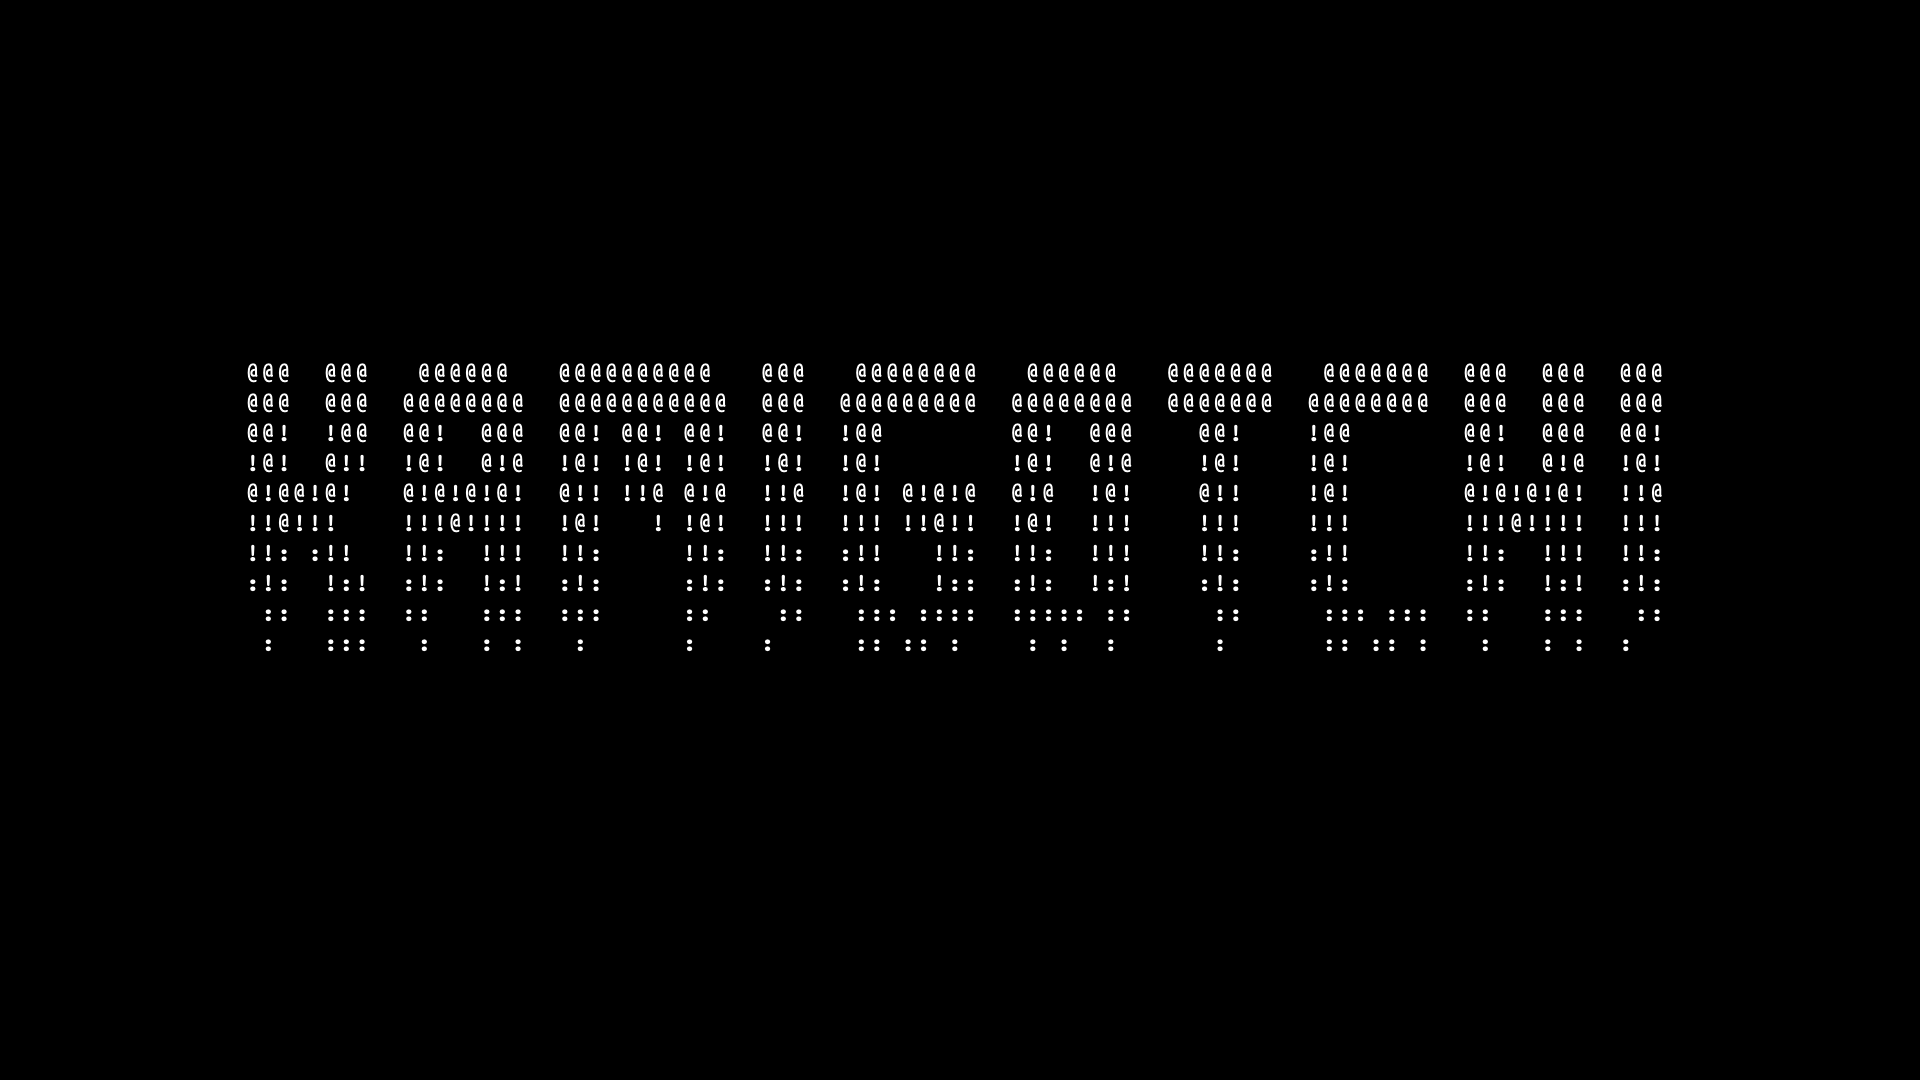
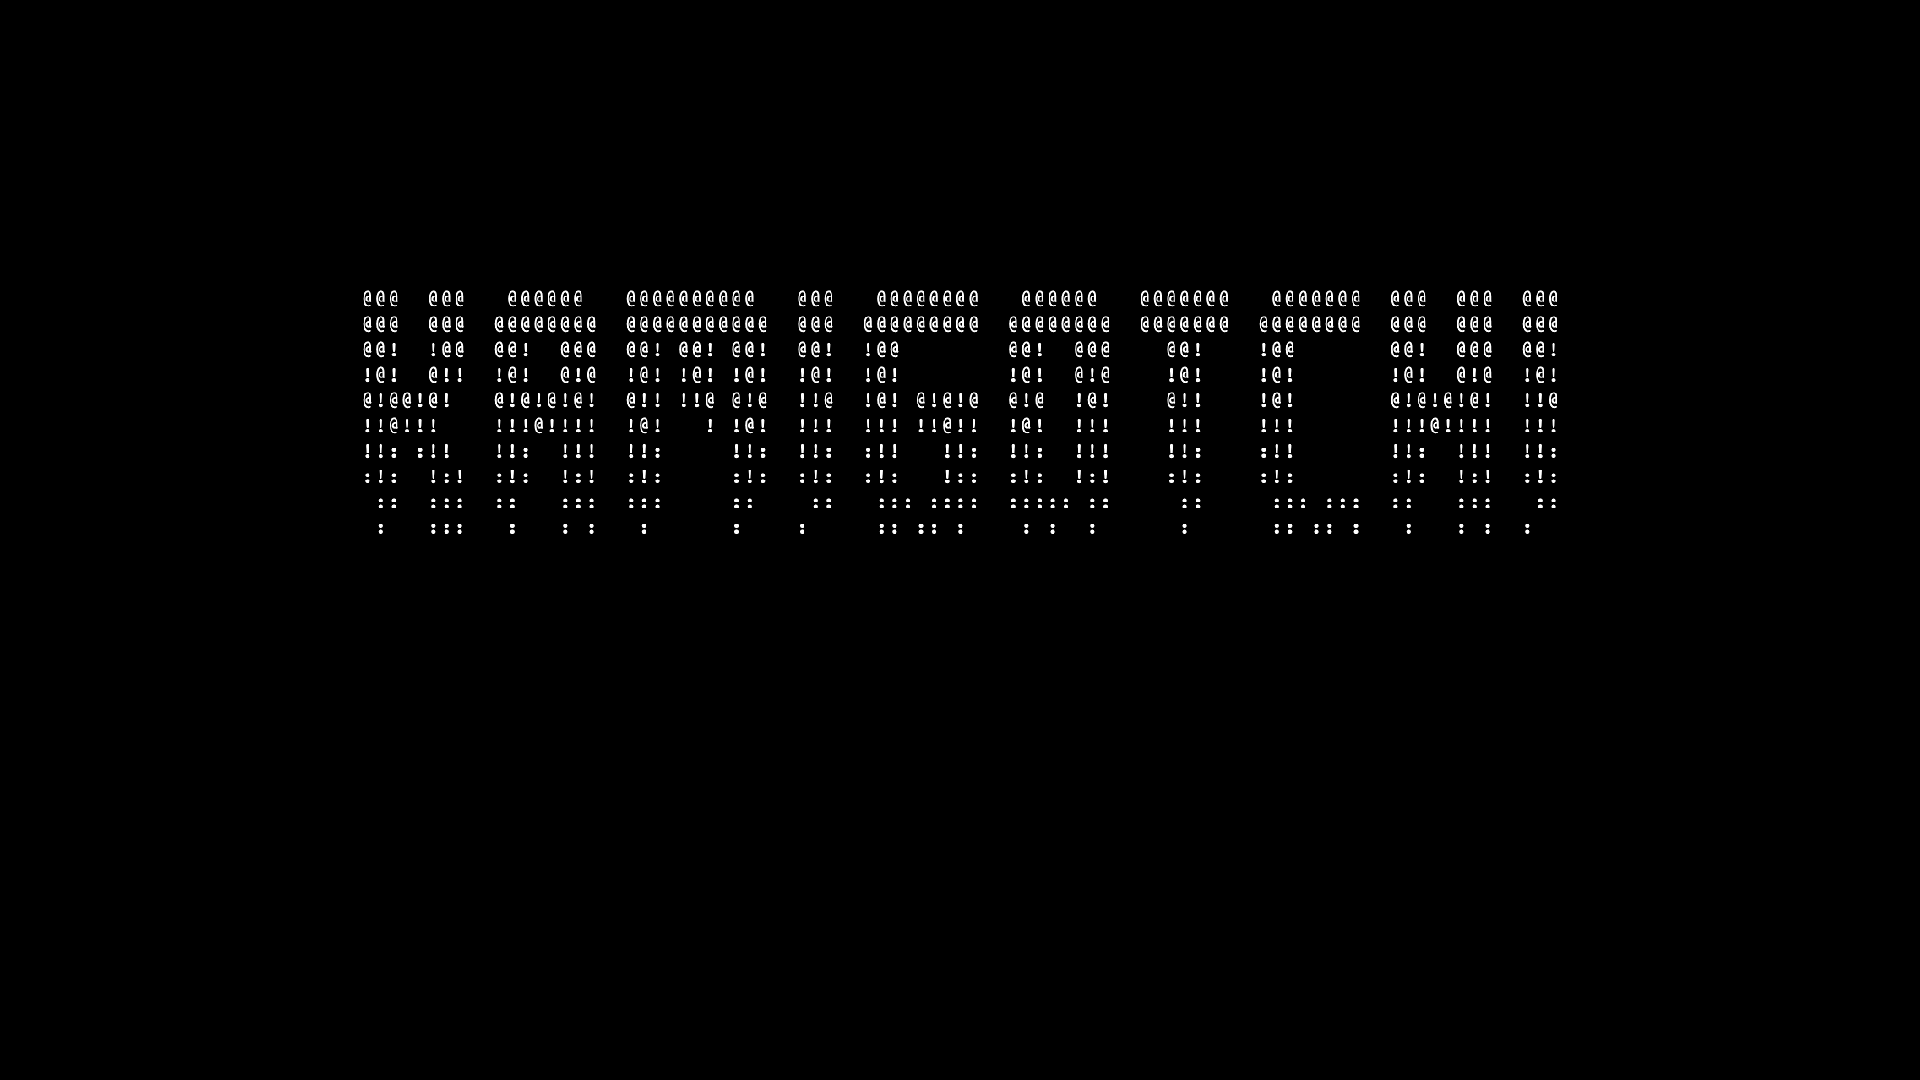
swap out loading screen photos

Changed region(s): [[0.125, 0.275, 0.875, 0.5194]]

diff --git a/packages/client/src/layers/react/engine/components/BootScreen.tsx b/packages/client/src/layers/react/engine/components/BootScreen.tsx
@@ -54,7 +54,7 @@ const Image = styled.img`
 const Status = styled.div`
   color: #fff;
   position: absolute;
-  bottom: 30vh;
+  bottom: 35vh;
   width: 100%;
 
   text-align: center;
